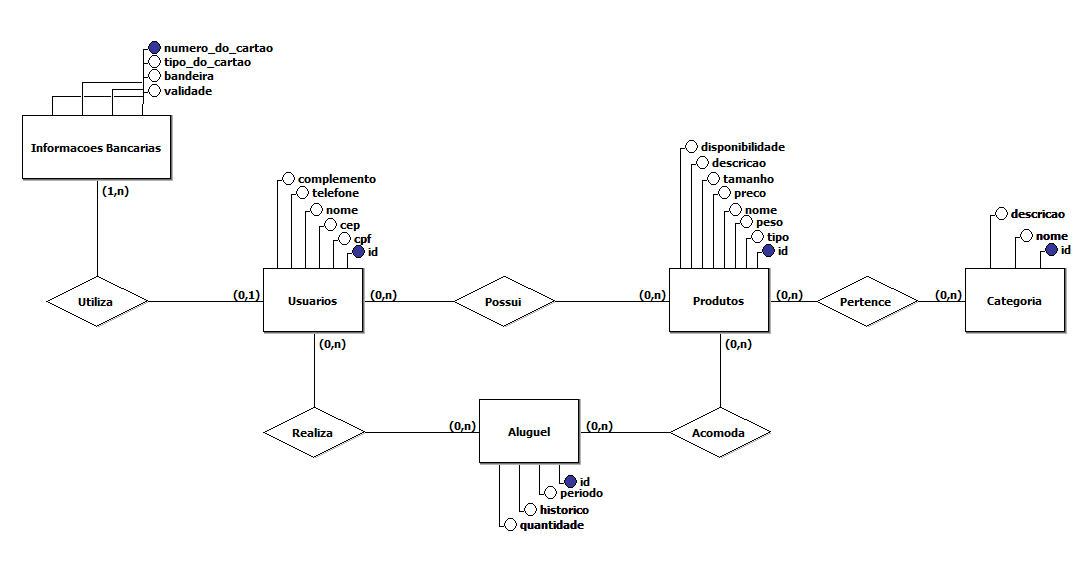
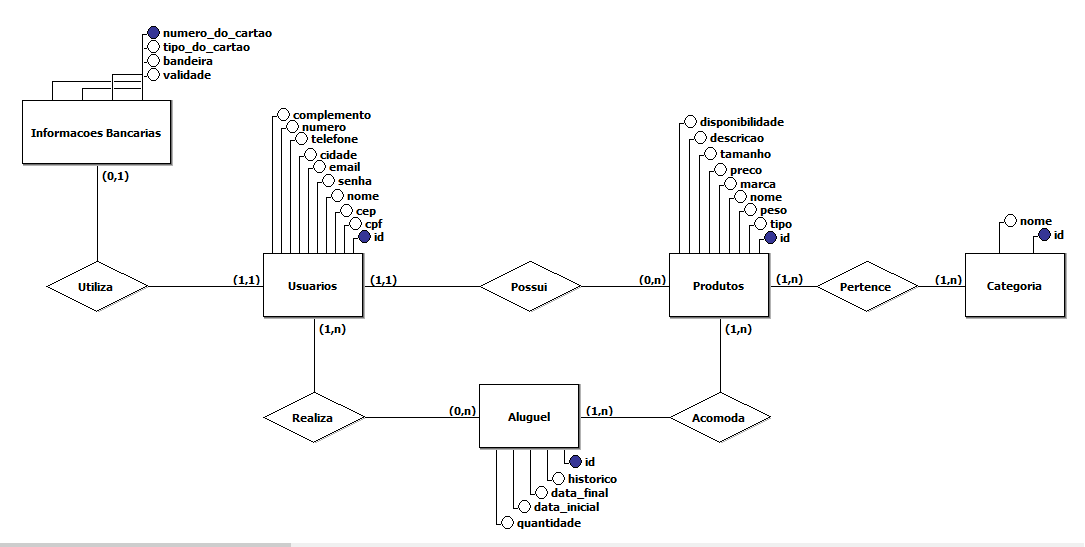
+validation

diff --git a/Alugae/app/Http/Requests/UserRequest.php b/Alugae/app/Http/Requests/UserRequest.php
@@ -1,0 +1,58 @@
+<?php
+
+namespace App\Http\Requests;
+
+use Illuminate\Foundation\Http\FormRequest;
+use Illuminate\Contracts\Validations\Validator;
+use Illuminate\Http\Exceptions\HttpResponseException;
+
+class UserRequest extends FormRequest
+{
+
+    public function authorize()
+    {
+        return true;
+    }
+
+    public function rules()
+    {
+            if($this->isMethod('post')){
+                return[
+                    'nome' => 'required|string',
+                    'email' => 'required|email',
+                    'cpf' => 'required|cpf|formato_cpf|digits:11|unique:users,cpf',
+                    'cep' => 'required|numeric',
+                    'telefone' => 'string|digits:11|telefone',
+                    'complemento' => 'required|string',
+                ];
+            }
+            if($this->isMethod('put')){
+                return [
+                    'nome' => 'string',
+                    'email' => 'email',
+                    'cpf' => 'unique:users,cpf,'.$this->users->id,
+                    'cep' => 'numeric',
+                    'telefone' => 'string|digits:11|telefone',
+                    'complemento' => 'string',
+                ];
+            }
+    }
+
+    protected function failedValidation(Validator $validator){
+        throw new HttpResponseException(response()->json($validator->errors(),422));
+    }
+
+    public function messages() {
+        return [
+            'nome.required' => "Campo Obrigatório!",
+            'email.required' => "Campo Obrigatório!",
+            'email.email' => "O campo deve ser preenchido no formato nomeDoUsuario@exemplo.com",
+            'cpf.required' => "Campo Obrigatório",
+            'cpf.cpf' => "Insira um CPF válido",
+            'cpf.formato_cpf' => "Insira o CPF na forma 111.222.333-44",
+            'cep.required' => "Campo Obrigatório!",
+            'telefone.telefone' => "Digite primeiramente o DDD e em seguida o telefone na forma 99999-9999",
+            'complemento.required' => "Campo Obrigatório",
+        ];
+    }
+}

diff --git a/Alugae/database/migrations/2019_02_07_010642_create_rents_table.php b/Alugae/database/migrations/2019_02_07_010642_create_rents_table.php
@@ -6,20 +6,17 @@ use Illuminate\Database\Migrations\Migration;
 
 class CreateRentsTable extends Migration
 {
-    /**
-     * Run the migrations.
-     *
-     * @return void
-     */
+
     public function up()
     {
         Schema::create('rents', function (Blueprint $table) {
             $table->increments('id');
-            $table->increments('usuario_id');
-            $table->increments('produto_id');
-            $table->increments('periodo');
-            $table->increments('historico');
-            $table->increments('quantidade');
+            $table->integer('usuario_id')->unique();
+            $table->integer('produto_id')->unique();
+            $table->string('data_inicial');
+            $table->string('data_final');
+            $table->string('historico');
+            $table->integer('quantidade');
             $table->timestamps();
         });
 
@@ -28,11 +25,6 @@ class CreateRentsTable extends Migration
             $table->foreign('produto_id')->references('id')->on('product')->onDelete('cascade');
     }
 
-    /**
-     * Reverse the migrations.
-     *
-     * @return void
-     */
     public function down()
     {
         Schema::dropIfExists('rents');

diff --git a/Alugae/database/migrations/2019_02_07_012352_create_bank__informations_table.php b/Alugae/database/migrations/2019_02_07_012352_create_bank__informations_table.php
@@ -6,21 +6,21 @@ use Illuminate\Database\Migrations\Migration;
 
 class CreateBankInformationsTable extends Migration
 {
-    /**
-     * Run the migrations.
-     *
-     * @return void
-     */
+
     public function up()
     {
-        Schema::create('bank__informations', function (Blueprint $table) {
+        Schema::create('bank_informations', function (Blueprint $table) {
             $table->increments('id');
-            $table->increments('numero_do_cartao');
-            $table->increments('tipo_do_cartao');
-            $table->increments('validade');
-            $table->increments('bandeira');
+            $table->string('numero_do_cartao');
+            $table->string('tipo_do_cartao');
+            $table->string('validade');
+            $table->string('bandeira');
+            $table->string('usuario_nome');
             $table->timestamps();
         });
+
+        Schema::table('bank_informations', function (Blueprint $table) {
+            $table->foreign('usuario_nome')->references('nome')->on('users')->onDelete('cascade');
     }
 
     public function down()

diff --git a/Alugae/database/migrations/2019_02_07_012719_create_categories_table.php b/Alugae/database/migrations/2019_02_07_012719_create_categories_table.php
@@ -6,26 +6,17 @@ use Illuminate\Database\Migrations\Migration;
 
 class CreateCategoriesTable extends Migration
 {
-    /**
-     * Run the migrations.
-     *
-     * @return void
-     */
+
     public function up()
     {
         Schema::create('categories', function (Blueprint $table) {
             $table->increments('id');
-            $table->increments('nome');
-            $table->increments('descricao');
+            $table->string('nome');
             $table->timestamps();
         });
     }
 
-    /**
-     * Reverse the migrations.
-     *
-     * @return void
-     */
+
     public function down()
     {
         Schema::dropIfExists('categories');

diff --git a/Alugae/database/migrations/2014_10_12_000000_create_users_table.php b/Alugae/database/migrations/2014_10_12_000000_create_users_table.php
@@ -11,10 +11,13 @@ class CreateUsersTable extends Migration
         Schema::create('users', function (Blueprint $table) {
             $table->increments('id');
             $table->string('nome');
-            $table->string('email')->unique();
+            $table->string('cep')->unique();
             $table->string('cpf')->unique();
-            $table->string('cep');
+            $table->string('senha');
+            $table->string('email');
+            $table->string('cidade');
             $table->string('telefone');
+            $table->integer('numero');
             $table->string('complemento');
             $table->timestamps();
         });

diff --git a/Alugae/database/migrations/2014_10_12_100000_create_password_resets_table.php b/Alugae/database/migrations/2014_10_12_100000_create_password_resets_table.php
@@ -6,11 +6,7 @@ use Illuminate\Database\Migrations\Migration;
 
 class CreatePasswordResetsTable extends Migration
 {
-    /**
-     * Run the migrations.
-     *
-     * @return void
-     */
+
     public function up()
     {
         Schema::create('password_resets', function (Blueprint $table) {
@@ -20,11 +16,6 @@ class CreatePasswordResetsTable extends Migration
         });
     }
 
-    /**
-     * Reverse the migrations.
-     *
-     * @return void
-     */
     public function down()
     {
         Schema::dropIfExists('password_resets');

diff --git a/Alugae/database/migrations/2019_02_07_010058_create_products_table.php b/Alugae/database/migrations/2019_02_07_010058_create_products_table.php
@@ -12,9 +12,8 @@ class CreateProductsTable extends Migration
             $table->increments('id');
             $table->string('tipo');
             $table->string('nome');
-            $table->string('peso');
+            $table->string('marca');
             $table->integer('preco');
-            $table->string('tamanho');
             $table->string('descricao');
             $table->string('disponibilidade');
             $table->timestamps();

diff --git a/Alugae/app/Http/Controllers/UserController.php b/Alugae/app/Http/Controllers/UserController.php
@@ -2,7 +2,9 @@
 
 namespace App\Http\Controllers;
 
+use Illuminate\Contracts\Validation\Validator;
 use Illuminate\Http\Request;
+use App\User;
 
 class UserController extends Controller
 {
